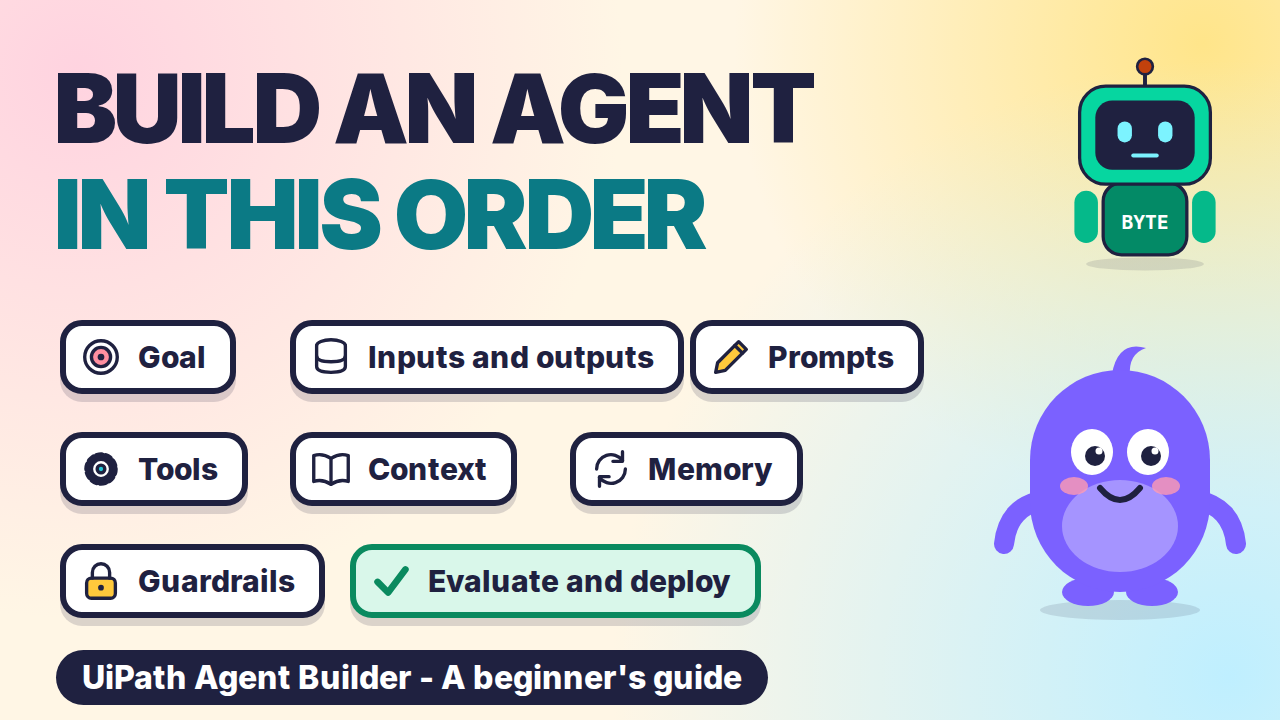
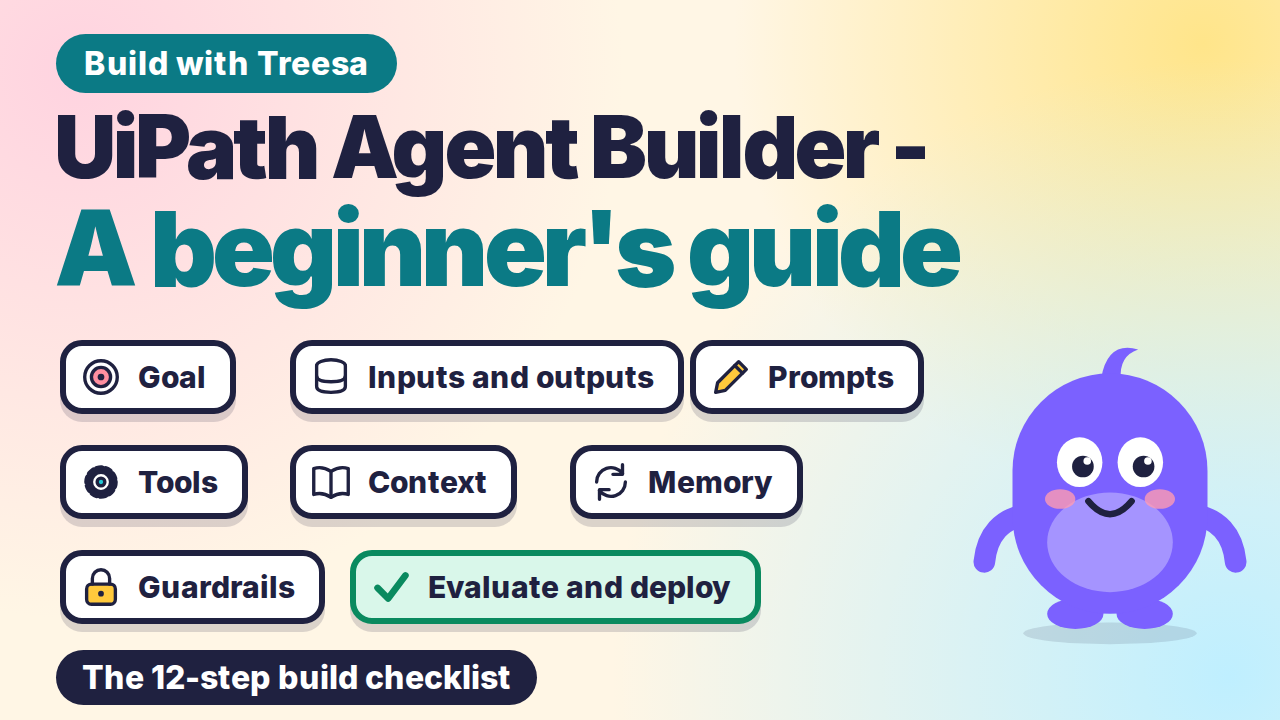
Thumbnails: title as the headline, 'Build with Treesa' as the tag above it
Claude-Session: https://claude.ai/code/session_01NenhJdVBmKkj5n1rJLskf7

diff --git a/videos/uipath-agent-builder-narrated/youtube/thumbnail-B.html b/videos/uipath-agent-builder-narrated/youtube/thumbnail-B.html
@@ -12,23 +12,22 @@ body{position:relative;font-family:ThumbInter,Inter,'DejaVu Sans',sans-serif;col
 .tk{position:absolute;display:flex;align-items:center;gap:14px;background:#fff;border:6px solid #1f2140;border-radius:22px;padding:8px 24px 8px 12px;font-weight:800;font-size:30px;white-space:nowrap;box-shadow:0 8px 0 rgba(31,33,64,.16)}
 .ic{display:block}i[data-ic]{display:inline-flex;font-style:normal}
 
-.l1{position:absolute;left:54px;top:60px;font-size:96px;font-weight:900;letter-spacing:-.04em;line-height:1}
-.l2{position:absolute;left:54px;top:166px;font-size:96px;font-weight:900;letter-spacing:-.04em;line-height:1;color:#0b7a85}
-.n{position:absolute;width:56px;height:56px;border-radius:50%;background:#0b7a85;color:#fff;border:5px solid #1f2140;font-weight:900;font-size:28px;display:flex;align-items:center;justify-content:center}
+.l1{position:absolute;left:54px;top:104px;font-size:86px;font-weight:900;letter-spacing:-.04em;line-height:1;white-space:nowrap}
+.l2{position:absolute;left:54px;top:196px;font-size:104px;font-weight:900;letter-spacing:-.045em;line-height:1;color:#0b7a85;white-space:nowrap}
 </style></head><body>
-<div class="l1">BUILD AN AGENT</div>
-<div class="l2">IN THIS ORDER</div>
-<div class="tk" style="left:60px;top:320px"><i data-ic="target" data-s="46"></i>Goal</div>
-<div class="tk" style="left:290px;top:320px"><i data-ic="db" data-s="46"></i>Inputs and outputs</div>
-<div class="tk" style="left:690px;top:320px"><i data-ic="pencil" data-s="46"></i>Prompts</div>
-<div class="tk" style="left:60px;top:432px"><i data-ic="gear" data-s="46"></i>Tools</div>
-<div class="tk" style="left:290px;top:432px"><i data-ic="book" data-s="46"></i>Context</div>
-<div class="tk" style="left:570px;top:432px"><i data-ic="loop" data-s="46"></i>Memory</div>
-<div class="tk" style="left:60px;top:544px"><i data-ic="lock" data-s="46"></i>Guardrails</div>
-<div class="tk" style="left:350px;top:544px;background:#d9f7ea;border-color:#0a8a5f"><i data-ic="tick" data-s="46"></i>Evaluate and deploy</div>
-<div class="pill" style="left:56px;top:650px;background:#1f2140;color:#fff;font-size:32px;padding:8px 26px">UiPath Agent Builder - A beginner's guide</div>
-<div class="char" data-kind="sam" style="left:1000px;top:330px;width:240px"></div>
-<div class="char" data-kind="byte" style="left:1060px;top:60px;width:170px"></div>
+<div class="pill" style="left:56px;top:34px;background:#0b7a85;color:#fff;font-size:32px;padding:10px 28px;letter-spacing:.02em">Build with Treesa</div>
+<div class="l1">UiPath Agent Builder -</div>
+<div class="l2">A beginner's guide</div>
+<div class="tk" style="left:60px;top:340px"><i data-ic="target" data-s="46"></i>Goal</div>
+<div class="tk" style="left:290px;top:340px"><i data-ic="db" data-s="46"></i>Inputs and outputs</div>
+<div class="tk" style="left:690px;top:340px"><i data-ic="pencil" data-s="46"></i>Prompts</div>
+<div class="tk" style="left:60px;top:445px"><i data-ic="gear" data-s="46"></i>Tools</div>
+<div class="tk" style="left:290px;top:445px"><i data-ic="book" data-s="46"></i>Context</div>
+<div class="tk" style="left:570px;top:445px"><i data-ic="loop" data-s="46"></i>Memory</div>
+<div class="tk" style="left:60px;top:550px"><i data-ic="lock" data-s="46"></i>Guardrails</div>
+<div class="tk" style="left:350px;top:550px;background:#d9f7ea;border-color:#0a8a5f"><i data-ic="tick" data-s="46"></i>Evaluate and deploy</div>
+<div class="pill" style="left:56px;top:650px;background:#1f2140;color:#fff;font-size:32px;padding:8px 26px">The 12-step build checklist</div>
+<div class="char" data-kind="sam" style="left:980px;top:330px;width:260px"></div>
 
 <script>// ---------------- icon set (48x48, ink outline, flat fills) ----------------
 const IC = {

diff --git a/videos/uipath-agent-builder-narrated/youtube/thumbnail-A.html b/videos/uipath-agent-builder-narrated/youtube/thumbnail-A.html
@@ -12,17 +12,17 @@ body{position:relative;font-family:ThumbInter,Inter,'DejaVu Sans',sans-serif;col
 .tk{position:absolute;display:flex;align-items:center;gap:14px;background:#fff;border:6px solid #1f2140;border-radius:22px;padding:8px 24px 8px 12px;font-weight:800;font-size:30px;white-space:nowrap;box-shadow:0 8px 0 rgba(31,33,64,.16)}
 .ic{display:block}i[data-ic]{display:inline-flex;font-style:normal}
 
-.glow{position:absolute;left:760px;top:60px;width:620px;height:620px;border-radius:50%;background:radial-gradient(circle,#8fe9f2 0,rgba(143,233,242,0) 68%)}
-.l1{position:absolute;left:54px;top:140px;font-size:84px;font-weight:900;letter-spacing:-.03em}
-.l2{position:absolute;left:46px;top:226px;font-size:178px;font-weight:900;letter-spacing:-.05em;color:#0b7a85;line-height:1.1;background:linear-gradient(transparent 66%,#ffc93c 66%,#ffc93c 90%,transparent 90%)}
+.glow{position:absolute;left:760px;top:330px;width:560px;height:560px;border-radius:50%;background:radial-gradient(circle,#8fe9f2 0,rgba(143,233,242,0) 68%)}
+.l1{position:absolute;left:54px;top:118px;font-size:96px;font-weight:900;letter-spacing:-.04em;white-space:nowrap}
+.l2{position:absolute;left:46px;top:222px;font-size:128px;font-weight:900;letter-spacing:-.05em;color:#0b7a85;line-height:1.1;white-space:nowrap;background:linear-gradient(transparent 66%,#ffc93c 66%,#ffc93c 90%,transparent 90%)}
 </style></head><body>
 <div class="glow"></div>
-<div class="pill" style="left:56px;top:48px;background:#0b7a85;color:#fff;font-size:34px;padding:12px 30px;letter-spacing:.01em">UiPath Agent Builder - A beginner's guide</div>
-<div class="l1">HOW TO BUILD AN</div>
-<div class="l2">AI AGENT</div>
-<div class="ntile" style="left:60px;top:470px;background:#fff"><i data-ic="pencil" data-s="66"></i><span>Prompt</span></div><div class="ntile" style="left:200px;top:470px;background:#fff"><i data-ic="gear" data-s="66"></i><span>Tools</span></div><div class="ntile" style="left:340px;top:470px;background:#fff"><i data-ic="book" data-s="66"></i><span>Context</span></div><div class="ntile" style="left:480px;top:470px;background:#fff"><i data-ic="loop" data-s="66"></i><span>Memory</span></div><div class="ntile" style="left:620px;top:470px;background:#fff"><i data-ic="person" data-s="66"></i><span>Human</span></div>
-<div class="pill" style="left:56px;top:632px;background:#1f2140;color:#fff;font-size:34px;padding:10px 28px">About 12 minutes</div>
-<div class="char" data-kind="byte" style="left:870px;top:120px;width:380px"></div>
+<div class="pill" style="left:56px;top:44px;background:#0b7a85;color:#fff;font-size:34px;padding:12px 30px;letter-spacing:.02em">Build with Treesa</div>
+<div class="l1">UiPath Agent Builder -</div>
+<div class="l2">A beginner's guide</div>
+<div class="ntile" style="left:60px;top:440px;background:#fff"><i data-ic="pencil" data-s="66"></i><span>Prompt</span></div><div class="ntile" style="left:200px;top:440px;background:#fff"><i data-ic="gear" data-s="66"></i><span>Tools</span></div><div class="ntile" style="left:340px;top:440px;background:#fff"><i data-ic="book" data-s="66"></i><span>Context</span></div><div class="ntile" style="left:480px;top:440px;background:#fff"><i data-ic="loop" data-s="66"></i><span>Memory</span></div><div class="ntile" style="left:620px;top:440px;background:#fff"><i data-ic="person" data-s="66"></i><span>Human</span></div>
+<div class="pill" style="left:56px;top:620px;background:#1f2140;color:#fff;font-size:34px;padding:10px 28px">How to build an AI agent</div>
+<div class="char" data-kind="byte" style="left:960px;top:385px;width:250px"></div>
 
 <script>// ---------------- icon set (48x48, ink outline, flat fills) ----------------
 const IC = {

diff --git a/videos/uipath-agent-builder-narrated/youtube/thumbnail-C.html b/videos/uipath-agent-builder-narrated/youtube/thumbnail-C.html
@@ -13,19 +13,18 @@ body{position:relative;font-family:ThumbInter,Inter,'DejaVu Sans',sans-serif;col
 .ic{display:block}i[data-ic]{display:inline-flex;font-style:normal}
 
 body{background:radial-gradient(circle at 85% 20%,#1c2c5c 0,transparent 55%),radial-gradient(circle at 10% 100%,#0e4a55 0,transparent 50%),#121a30;color:#fff}
-.t1{position:absolute;left:56px;top:150px;font-size:118px;white-space:nowrap;font-weight:900;letter-spacing:-.045em;line-height:1.02}
-.t2{position:absolute;left:56px;top:276px;font-size:118px;white-space:nowrap;font-weight:900;letter-spacing:-.045em;line-height:1.02;color:#ffc93c}
-.ntile{background:#fff}
+.t1{position:absolute;left:56px;top:122px;font-size:96px;white-space:nowrap;font-weight:900;letter-spacing:-.04em;line-height:1.02}
+.t2{position:absolute;left:52px;top:226px;font-size:128px;white-space:nowrap;font-weight:900;letter-spacing:-.05em;line-height:1.02;color:#ffc93c}
 </style></head><body>
-<div class="pill" style="left:56px;top:48px;background:#21c7d6;color:#121a30;font-size:34px;padding:12px 30px;letter-spacing:.01em">UiPath Agent Builder - A beginner's guide</div>
-<div class="t1">Not a chatbot.</div>
-<div class="t2">An agent.</div>
-<div style="position:absolute;left:820px;top:300px;width:520px;height:520px;border-radius:50%;background:radial-gradient(circle,rgba(80,222,235,.8) 0,rgba(80,222,235,0) 68%)"></div>
-<div class="char" data-kind="byte" style="left:900px;top:330px;width:290px"></div>
-<div class="ntile" style="left:60px;top:470px;background:#fff"><i data-ic="chat" data-s="66"></i><span>Reason</span></div>
-<div style="position:absolute;left:190px;top:500px;font-size:58px;font-weight:900;color:#ffc93c">+</div>
-<div class="ntile" style="left:260px;top:470px;background:#ffc93c"><i data-ic="gear" data-s="66"></i><span>Act</span></div>
-<div class="pill" style="left:56px;top:650px;background:#fff;color:#121a30;font-size:34px;padding:10px 28px">About 12 minutes</div>
+<div class="pill" style="left:56px;top:44px;background:#21c7d6;color:#121a30;font-size:34px;padding:12px 30px;letter-spacing:.02em">Build with Treesa</div>
+<div class="t1">UiPath Agent Builder -</div>
+<div class="t2">A beginner's guide</div>
+<div style="position:absolute;left:820px;top:330px;width:520px;height:520px;border-radius:50%;background:radial-gradient(circle,rgba(80,222,235,.8) 0,rgba(80,222,235,0) 68%)"></div>
+<div class="char" data-kind="byte" style="left:960px;top:385px;width:250px"></div>
+<div class="ntile" style="left:60px;top:440px;background:#fff"><i data-ic="chat" data-s="66"></i><span>Reason</span></div>
+<div style="position:absolute;left:190px;top:470px;font-size:58px;font-weight:900;color:#ffc93c">+</div>
+<div class="ntile" style="left:260px;top:440px;background:#ffc93c"><i data-ic="gear" data-s="66"></i><span>Act</span></div>
+<div class="pill" style="left:56px;top:620px;background:#fff;color:#121a30;font-size:34px;padding:10px 28px">Not a chatbot. An agent.</div>
 
 <script>// ---------------- icon set (48x48, ink outline, flat fills) ----------------
 const IC = {

diff --git a/videos/uipath-agent-builder-narrated/youtube/publish-pack.md b/videos/uipath-agent-builder-narrated/youtube/publish-pack.md
@@ -24,9 +24,9 @@ Avoid "Demo" or "Live demo": the screens are illustrations, not recordings of th
 
 | File | Look | Best for |
 | --- | --- | --- |
-| `thumbnail-A.png` | "HOW TO BUILD AN AI AGENT", Byte the robot, five building-block icons, "About 12 minutes" | **Default.** Matches the recommended title |
-| `thumbnail-B.png` | "BUILD AN AGENT IN THIS ORDER" with the checklist as chips | A/B test: promises a takeaway, readable at phone size |
-| `thumbnail-C.png` | Dark background, "Not a chatbot. An agent." with Reason + Act tiles | Feeds that are mostly light; the strongest curiosity hook |
+| `thumbnail-A.png` | Title "UiPath Agent Builder - A beginner's guide" under a "Build with Treesa" tag, five building-block icons, Byte the robot, "How to build an AI agent" | **Default.** Matches the recommended title |
+| `thumbnail-B.png` | Same title and tag, with the build checklist as chips and Sam | A/B test: promises a takeaway, readable at phone size |
+| `thumbnail-C.png` | Dark background, same title and tag, Reason + Act tiles and "Not a chatbot. An agent." | Feeds that are mostly light; the strongest curiosity hook |
 
 If "Test & compare" is available in YouTube Studio, upload A, B and C as a test. They use only the video's own
 characters, icons and palette (no UiPath logo, no product screenshots). Tweak or rebuild with
@@ -148,4 +148,3 @@ Not a chatbot. An agent. A beginner guide to building one in UiPath Agent Builde
 2. **Voice.** The narrator is a synthetic voice that says "welcome back to Build with Treesa". Make sure that is how you want to present it, and keep the disclosure line in the description.
 3. **Facts.** Product behaviour (episodic and escalation memory, Memory Spaces, Context Grounding, the Execution Trail and History) is narrated exactly as your script states it and was not checked against UiPath's pages. Check it against the current documentation.
 4. **Affiliation.** The video and thumbnails use text only, with no UiPath logo or screenshots. If you are not publishing on UiPath's behalf, consider adding: `This is an independent explainer and is not produced or endorsed by UiPath.`
-5. **Length in thumbnail A.** It says "12 minutes"; the video is 11:46. Change it in `build-thumbnails.mjs` if you want it exact.
